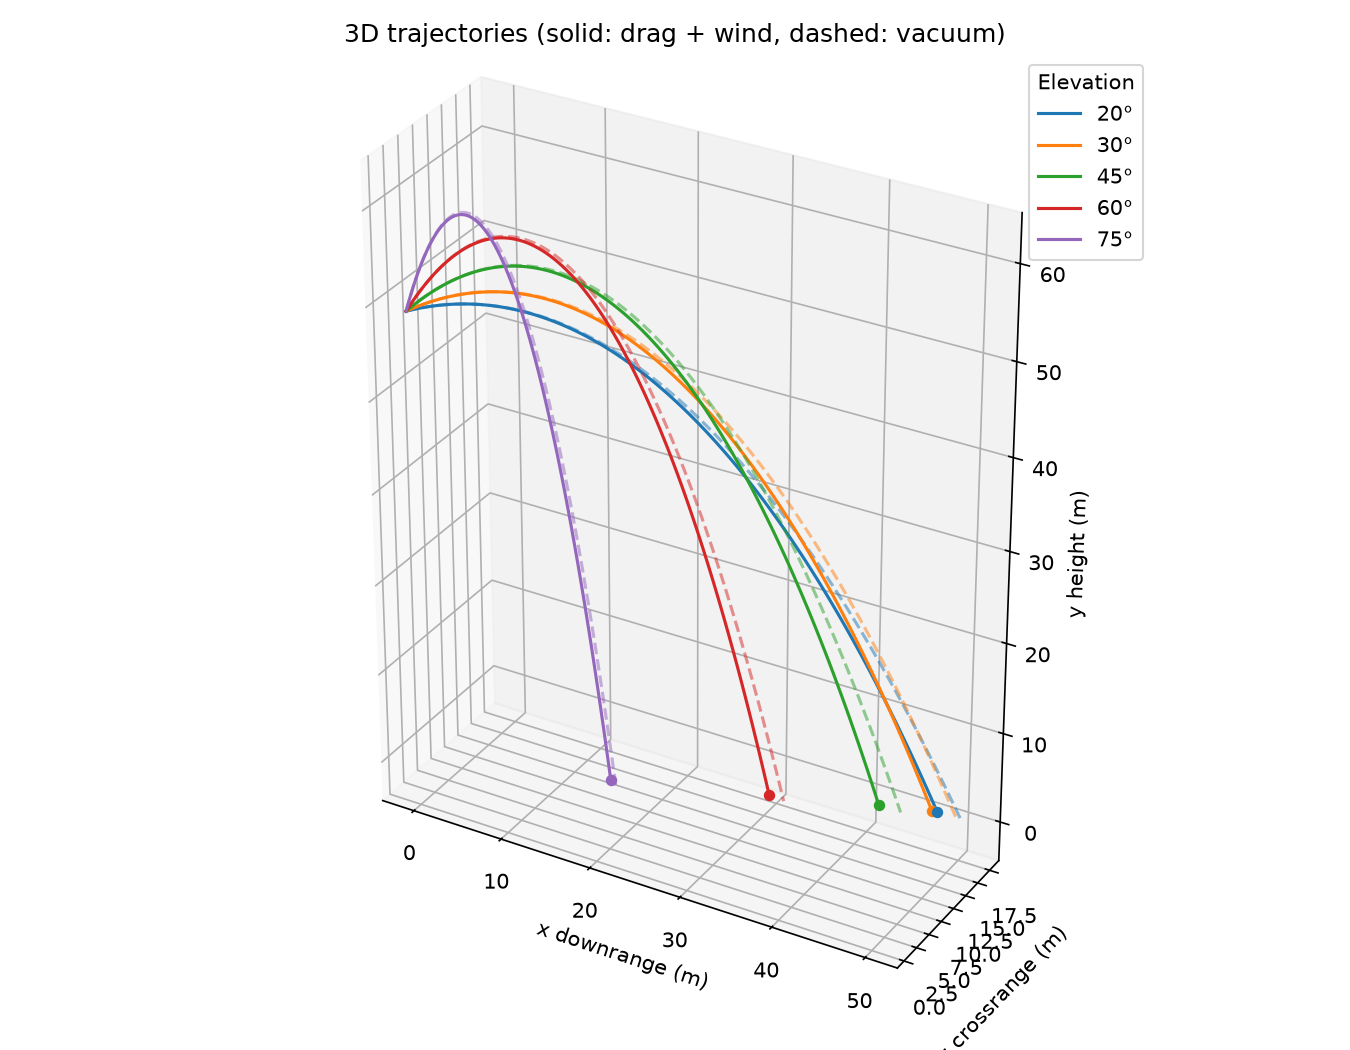
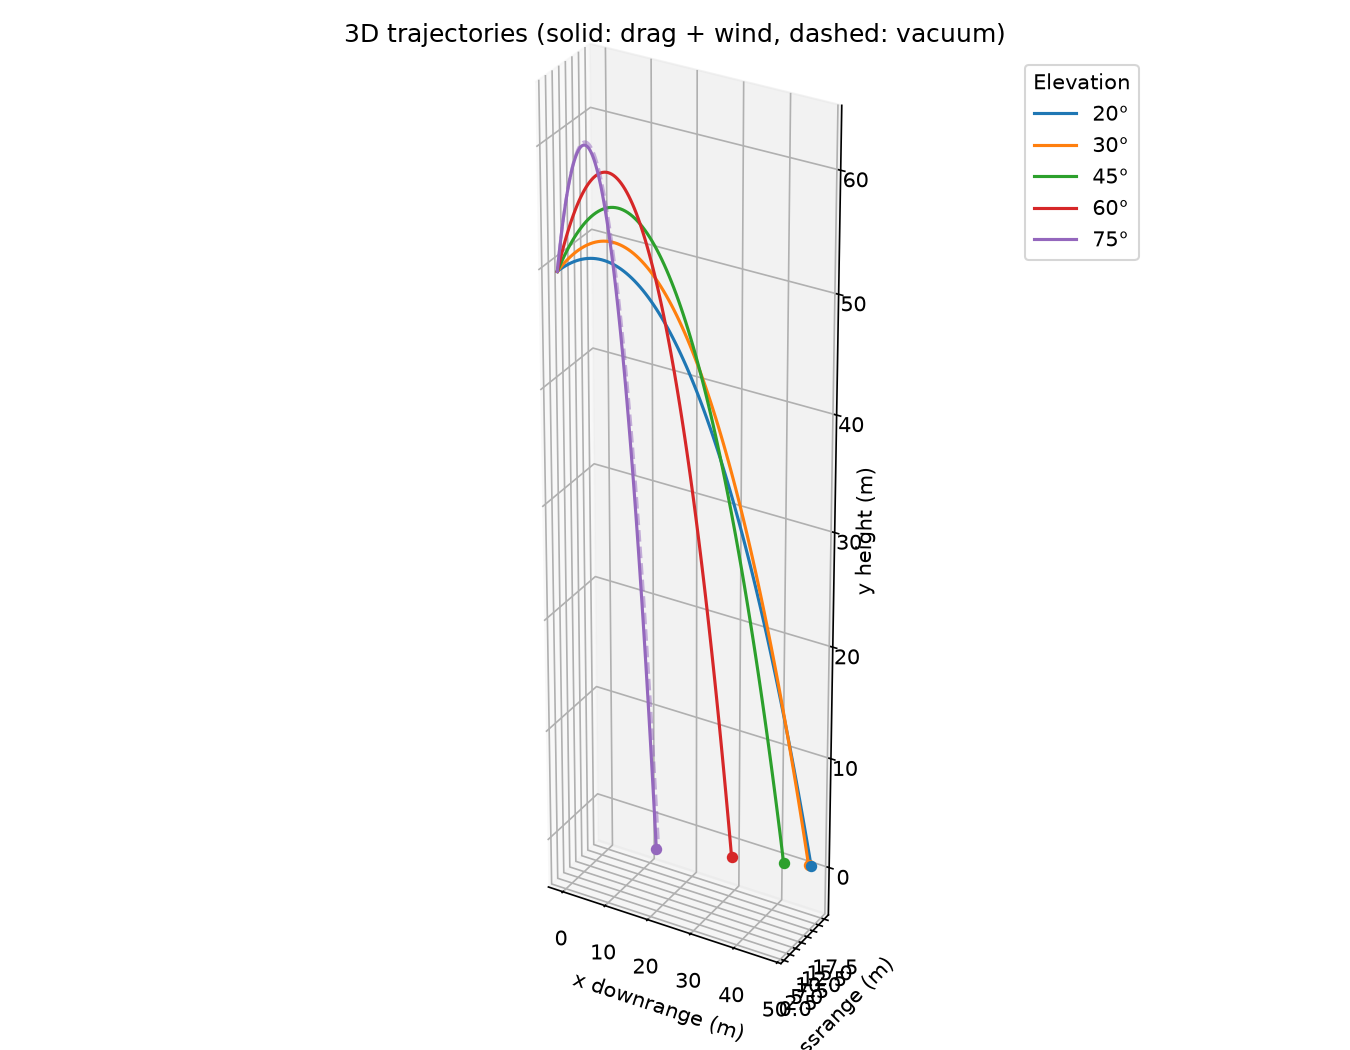
Trying to fix 3D Graph

diff --git a/3D_drone_dropper.py b/3D_drone_dropper.py
@@ -3,7 +3,8 @@ import matplotlib.pyplot as plt
 import numpy as np
 from scipy.integrate import solve_ivp
 from scipy.optimize import minimize_scalar
-
+import matplotlib
+matplotlib.use("QtAgg")
 # ---------- Launch Conditions --------------- 
 @dataclass(frozen = True)
 class Params:
@@ -154,14 +155,15 @@ def plot_3d(base=None, traj_angles=(20, 30, 45, 60, 75), show_vacuum=True, n=100
         line, = ax.plot(x, z, y, label=f"{a}°")
         ax.scatter(x[-1], z[-1], 0, color=line.get_color(), s=20)  # landing point
 
+    if show_vacuum:
         vx0, vy0, vz0 = initial_velocity(p)
         t_vac = (vy0 + np.sqrt(vy0**2 + 2 * p.g * p.y0)) / p.g
         tv = np.linspace(0, t_vac, n)
         xv, zv = vx0 * tv, vz0 * tv
         yv = p.y0 + vy0 * tv - 0.5 * p.g * tv**2
         ax.plot(xv, zv, yv, "--", color=line.get_color(), alpha=0.5)
-
-        xs += [x, xv]; ys += [y, yv]; zs += [z, zv]
+        xs.append(xv); ys.append(yv); zs.append(zv)
+    xs.append(xv); ys.append(yv); zs.append(zv)
 
     spans = [max(np.ptp(np.concatenate(v)), 1.0) for v in (xs, zs, ys)]
     ax.set_box_aspect(spans)
